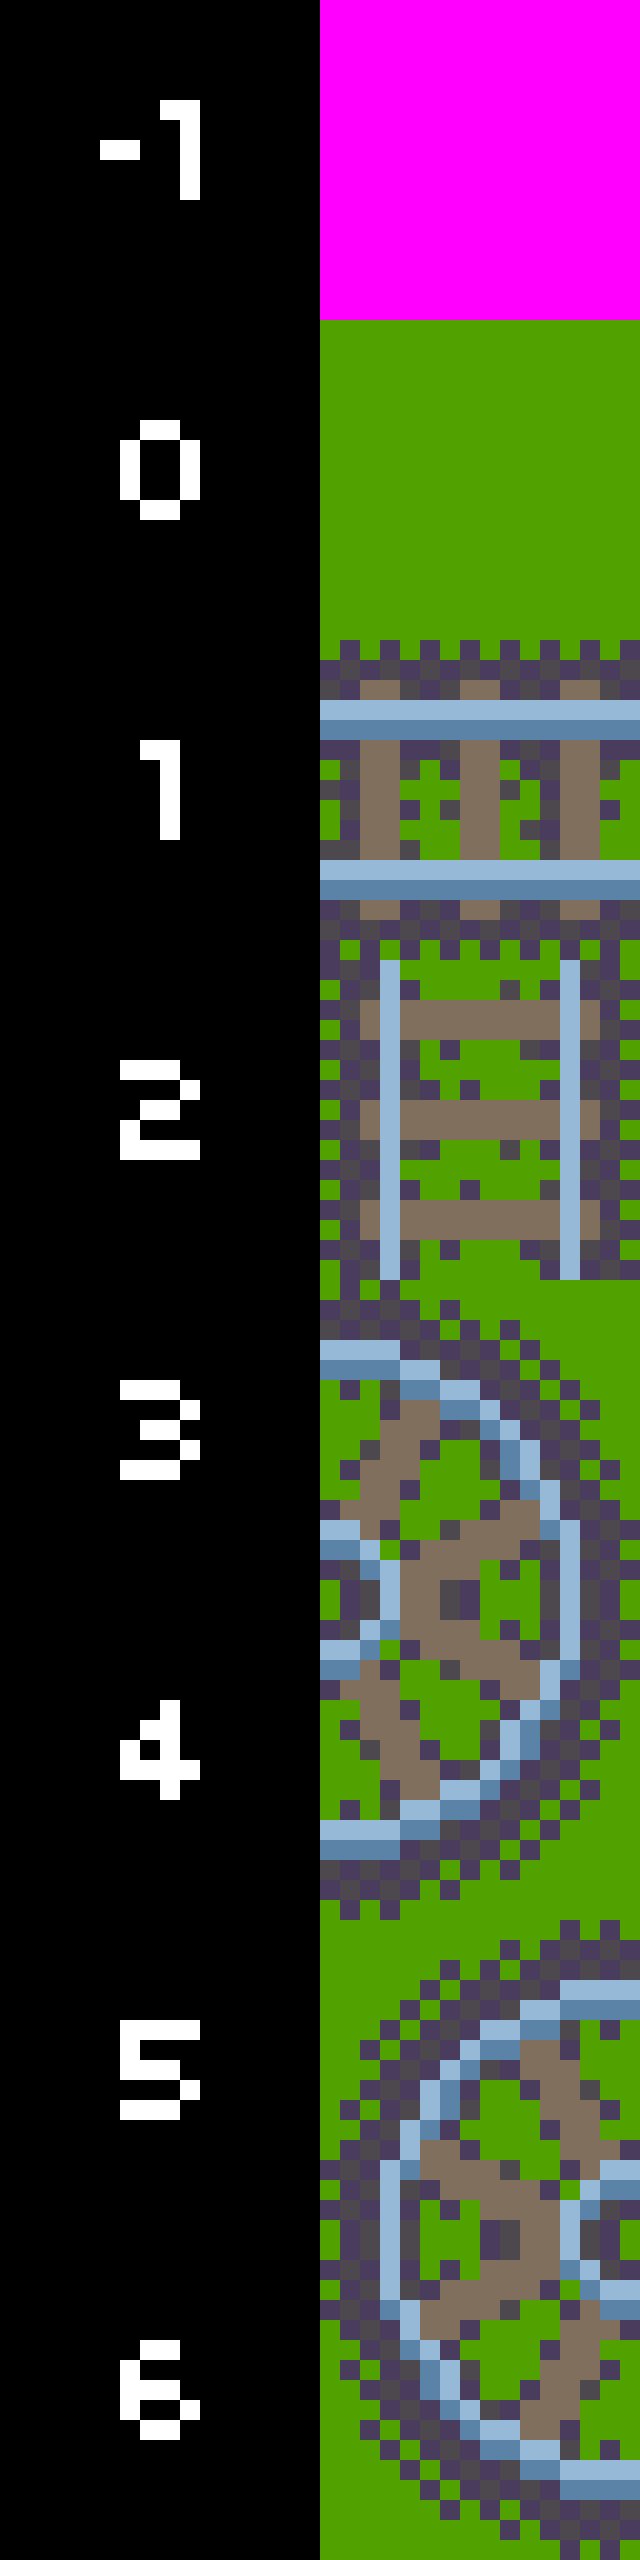
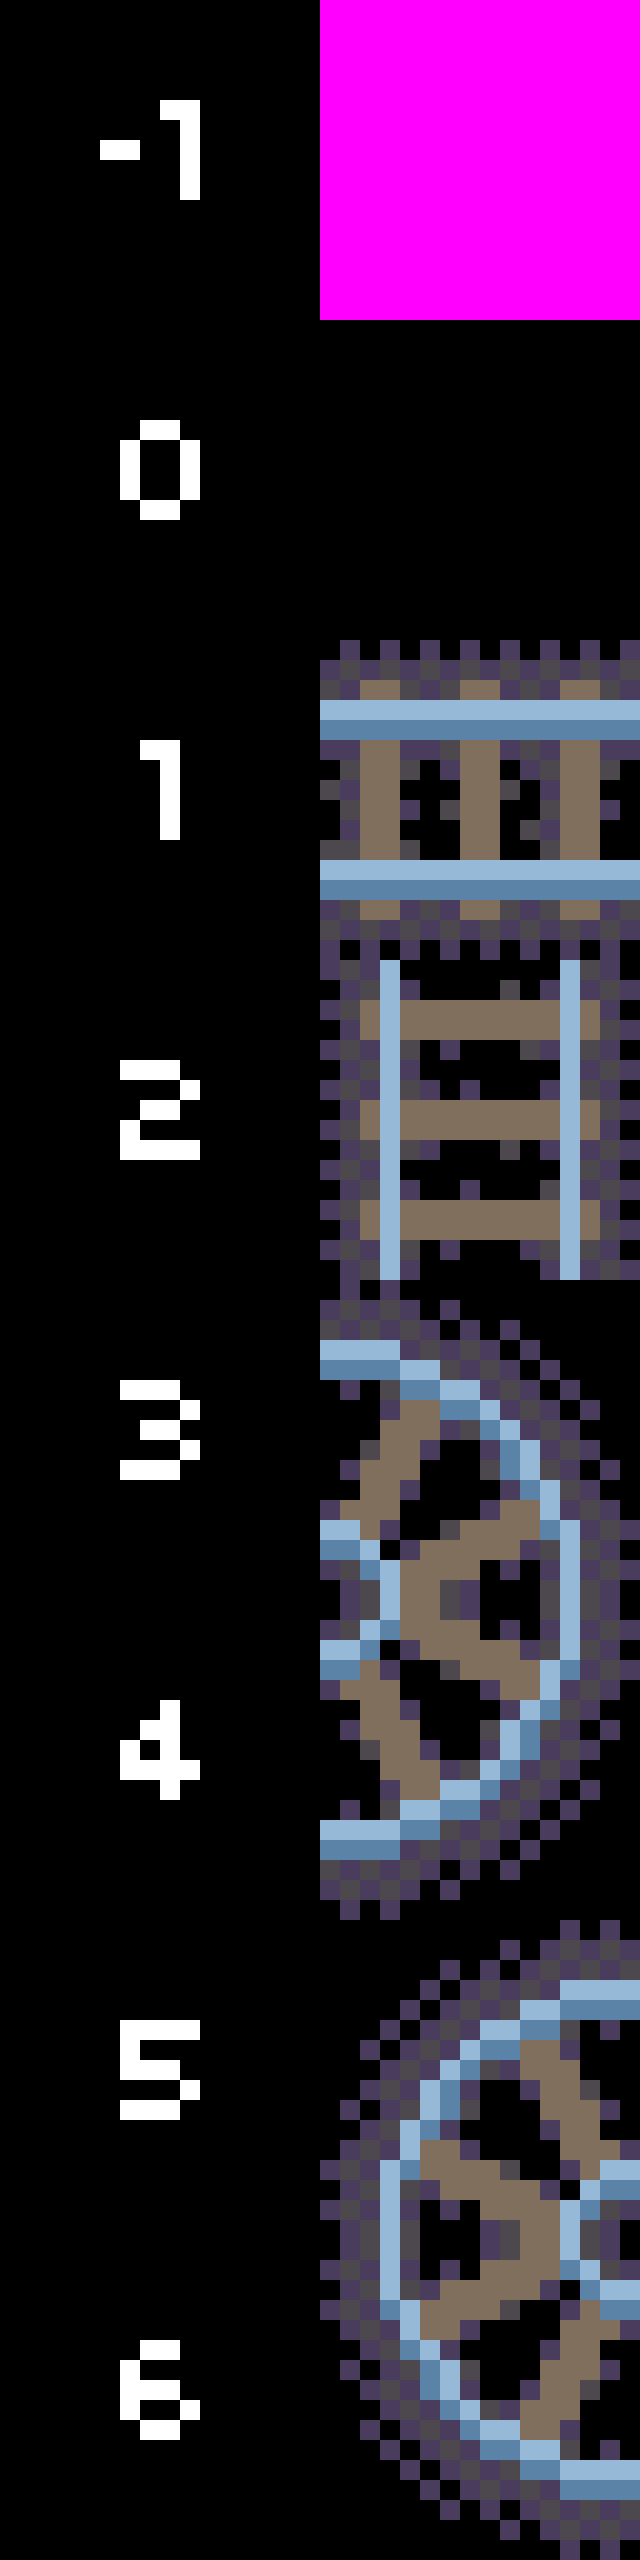
- it kinda works now

diff --git a/src/main.rs b/src/main.rs
@@ -1,9 +1,22 @@
 use ::rand::{seq::SliceRandom, thread_rng, Rng};
 use macroquad::prelude::*;
+use std::collections::HashMap;
 
-const ROW: f32 = 9.;
-const COLUMN: f32 = 16.;
+const ROW: usize = 2;
+const COLUMN: usize = 2;
 const TEXTURE_SIZE: f32 = 64.;
+const GRID_SIZE: usize = ROW * COLUMN;
+const TEXTURE_PARAM: macroquad::texture::DrawTextureParams = DrawTextureParams {
+    dest_size: Some(Vec2 {
+        x: TEXTURE_SIZE,
+        y: TEXTURE_SIZE,
+    }),
+    source: None,
+    rotation: 0.,
+    flip_x: false,
+    flip_y: false,
+    pivot: None,
+};
 
 /*
 
@@ -22,7 +35,8 @@ const TEXTURE_SIZE: f32 = 64.;
 #[derive(Clone, PartialEq)]
 struct Cell {
     is_collapsed: bool,
-    tile: i16,
+    tile: i32,
+    edges: Vec<i32>,
     tile_options: Vec<u8>,
 }
 
@@ -30,10 +44,9 @@ fn window_conf() -> Conf {
     Conf {
         window_title: "WFC-Rails".into(),
         icon: None,
-        window_width: (COLUMN * TEXTURE_SIZE) as i32,
-        window_height: (ROW * TEXTURE_SIZE) as i32,
+        window_width: COLUMN as i32 * TEXTURE_SIZE as i32,
+        window_height: ROW as i32 * TEXTURE_SIZE as i32,
         window_resizable: false,
-
         ..Default::default()
     }
 }
@@ -44,44 +57,65 @@ async fn main() {
     set_default_filter_mode(FilterMode::Nearest);
     let mut rng = thread_rng();
 
-    //load rails
-    let rail_h = load_texture("rail_h.png").await.unwrap();
-    let rail_v = load_texture("rail_v.png").await.unwrap();
-    let rail_ld = load_texture("rail_ld.png").await.unwrap();
-    let rail_lu = load_texture("rail_lu.png").await.unwrap();
-    let rail_rd = load_texture("rail_rd.png").await.unwrap();
-    let rail_ru = load_texture("rail_ru.png").await.unwrap();
+    //load rail texture
+    let rail_h_texture = load_texture("rail_h.png").await.unwrap();
+    let rail_v_texture = load_texture("rail_v.png").await.unwrap();
+    let rail_ld_texture = load_texture("rail_ld.png").await.unwrap();
+    let rail_lu_texture = load_texture("rail_lu.png").await.unwrap();
+    let rail_rd_texture = load_texture("rail_rd.png").await.unwrap();
+    let rail_ru_texture = load_texture("rail_ru.png").await.unwrap();
 
-    let texture_param = DrawTextureParams {
-        dest_size: Some(Vec2 {
-            x: TEXTURE_SIZE,
-            y: TEXTURE_SIZE,
-        }),
-        source: None,
-        rotation: 0.,
-        flip_x: false,
-        flip_y: false,
-        pivot: None,
-    };
+    let mut cells: HashMap<usize, Vec<i32>> = HashMap::new();
+
+    cells.insert(1, vec![0, 1, 0, 1]);
+    cells.insert(2, vec![1, 0, 1, 0]);
+    cells.insert(3, vec![0, 0, 1, 1]);
+    cells.insert(4, vec![1, 0, 0, 1]);
+    cells.insert(5, vec![0, 1, 1, 0]);
+    cells.insert(6, vec![1, 1, 0, 0]);
 
     let mut grid = vec![
         Cell {
             is_collapsed: false,
             tile: -1,
+            edges: vec![0, 0, 0, 0],
             tile_options: vec![0, 1, 2, 3, 4, 5, 6]
         };
-        (ROW * COLUMN) as usize
+        GRID_SIZE
     ];
 
-    //rand::gen_range(low, high);
-    let mut choosen_cell =
-        rng.gen_range(COLUMN as usize..=(ROW * COLUMN) as usize - COLUMN as usize);
-    grid[choosen_cell].is_collapsed = true;
-    grid[choosen_cell].tile = rng.gen_range(1..=6);
-    grid[choosen_cell].tile_options = vec![grid[choosen_cell].tile as u8];
+    grid[0] = Cell {
+        is_collapsed: true,
+        tile: 1,
+        edges: vec![0, 1, 0, 1],
+        tile_options: vec![],
+    };
+
+    if grid[0].edges[1] == 1 {
+        let collection = {
+            let mut damn: Vec<&usize> = vec![];
+            for (num, item) in cells.iter() {
+                if item[3] == 1 {
+                    damn.push(num);
+                }
+            }
+            damn
+        };
+
+        grid[1].tile = **collection.choose(&mut rng).unwrap() as i32;
+    }
+
+    /*
+        let mut choosen_cell = rng.gen_range(COLUMN..=GRID_SIZE - COLUMN);
+
+        grid[choosen_cell].is_collapsed = true;
+        grid[choosen_cell].tile = rng.gen_range(1..=6);
+        grid[choosen_cell].tile_options = vec![grid[choosen_cell].tile as u8];
+    */
 
     loop {
         //update world
+        /*
         if is_key_pressed(KeyCode::A) {
             grid = vec![
                 Cell {
@@ -89,99 +123,34 @@ async fn main() {
                     tile: -1,
                     tile_options: vec![0, 1, 2, 3, 4, 5, 6]
                 };
-                (ROW * COLUMN) as usize
+                GRID_SIZE
             ];
 
-            choosen_cell = rand::gen_range(0, (ROW * COLUMN) as usize);
+            choosen_cell = rand::gen_range(0, GRID_SIZE);
             info!("choosen cell = {}", choosen_cell);
 
             grid[choosen_cell].is_collapsed = true;
             grid[choosen_cell].tile = rng.gen_range(1..=6);
             grid[choosen_cell].tile_options = vec![grid[choosen_cell].tile as u8];
         }
+        */
 
-        //grid.iter().any(|el| !el.is_collapsed)
         // ! MARK: WFC
-        for _ in 0..100 {
-            let mut shortest_option = 7;
-            let mut index = 50;
-
-            for (grid_index, grid_tile) in grid.iter().enumerate() {
-                if grid_tile.tile_options.len() < shortest_option {
-                    shortest_option = grid_tile.tile_options.len();
-                    index = grid_index;
-                }
-            }
-            info!("shortest index {}", index);
-
-            let north = index - COLUMN as usize;
-            let south = index + COLUMN as usize;
-            let east = index + 1_usize;
-            let west = index - 1_usize;
-
-            if grid[north].tile == 2
-                || grid[north].tile == 3
-                || grid[north].tile == 5
-                || grid[south].tile == 2
-                || grid[south].tile == 3
-                || grid[south].tile == 5
-                || grid[west].tile == 2
-                || grid[west].tile == 3
-                || grid[west].tile == 5
-                || grid[east].tile == 2
-                || grid[east].tile == 3
-                || grid[east].tile == 5
-            {
-                grid[index].tile_options.retain(|&a| a != 0);
-                grid[index].tile_options.retain(|&a| a != 4);
-                grid[index].tile_options.retain(|&a| a != 1);
-                grid[index].tile_options.retain(|&a| a != 6);
-            } else if grid[north].tile == 1
-                || grid[north].tile == 4
-                || grid[north].tile == 6
-                || grid[south].tile == 1
-                || grid[south].tile == 4
-                || grid[south].tile == 6
-                || grid[west].tile == 1
-                || grid[west].tile == 4
-                || grid[west].tile == 6
-                || grid[east].tile == 1
-                || grid[east].tile == 4
-                || grid[east].tile == 6
-            {
-                grid[index].tile_options.retain(|&a| a != 0);
-                grid[index].tile_options.retain(|&a| a != 2);
-                grid[index].tile_options.retain(|&a| a != 3);
-                grid[index].tile_options.retain(|&a| a != 5);
-            }
-
-            //info!("index vec = {:?}", grid[index].tile_options);
-            grid[index].tile_options.choose(&mut rng);
-            grid[index].is_collapsed = true;
-            grid[index].tile = grid[index].tile_options[0] as i16;
-        }
 
         // ! MARK: draw world
         for (index, cell) in grid.iter().enumerate() {
-            let x = (index as f32 % COLUMN) * TEXTURE_SIZE;
-            let y = (index / COLUMN as usize) as f32 * TEXTURE_SIZE;
+            let x = (index % COLUMN) as f32 * TEXTURE_SIZE;
+            let y = (index / COLUMN) as f32 * TEXTURE_SIZE;
 
             match cell.tile {
-                -1 => draw_rectangle(x, y, TEXTURE_SIZE, TEXTURE_SIZE, MAGENTA),
-                0 => draw_rectangle(
-                    x,
-                    y,
-                    TEXTURE_SIZE,
-                    TEXTURE_SIZE,
-                    Color::from_rgba(81, 162, 0, 255),
-                ),
-                1 => draw_texture_ex(&rail_h, x, y, WHITE, texture_param.clone()),
-                2 => draw_texture_ex(&rail_v, x, y, WHITE, texture_param.clone()),
-                3 => draw_texture_ex(&rail_ld, x, y, WHITE, texture_param.clone()),
-                4 => draw_texture_ex(&rail_lu, x, y, WHITE, texture_param.clone()),
-                5 => draw_texture_ex(&rail_rd, x, y, WHITE, texture_param.clone()),
-                6 => draw_texture_ex(&rail_ru, x, y, WHITE, texture_param.clone()),
-                _ => (),
+                0 => draw_rectangle(x, y, TEXTURE_SIZE, TEXTURE_SIZE, BLACK),
+                1 => draw_texture_ex(&rail_h_texture, x, y, WHITE, TEXTURE_PARAM),
+                2 => draw_texture_ex(&rail_v_texture, x, y, WHITE, TEXTURE_PARAM),
+                3 => draw_texture_ex(&rail_ld_texture, x, y, WHITE, TEXTURE_PARAM),
+                4 => draw_texture_ex(&rail_lu_texture, x, y, WHITE, TEXTURE_PARAM),
+                5 => draw_texture_ex(&rail_rd_texture, x, y, WHITE, TEXTURE_PARAM),
+                6 => draw_texture_ex(&rail_ru_texture, x, y, WHITE, TEXTURE_PARAM),
+                _ => draw_rectangle(x, y, TEXTURE_SIZE, TEXTURE_SIZE, MAGENTA),
             }
         }
         next_frame().await;
